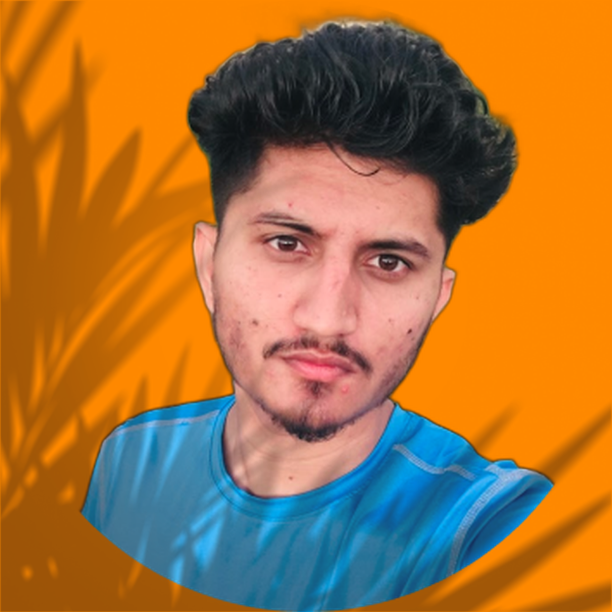
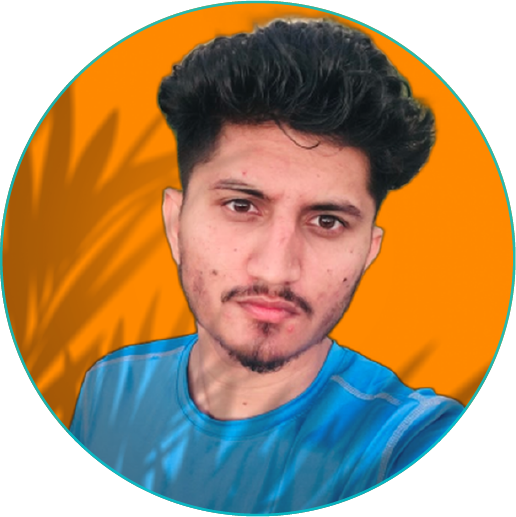
fff

diff --git a/src/components/About/About.js b/src/components/About/About.js
@@ -63,57 +63,7 @@ const About = ({refVar}) => {
         </div>
         <SkillsSection />
       </div>
-      {/* BUBBLES */}
-      <div className="bubble"></div>
-      <div className="bubble"></div>
-      <div className="bubble"></div>
-      <div className="bubble"></div>
-      <div className="bubble"></div>
-      <div className="bubble"></div>
-      <div className="bubble"></div>
-      <div className="bubble"></div>
-      <div className="bubble"></div>
-      <div className="bubble"></div>
-      <div className="bubble"></div>
-      <div className="bubble"></div>
-      <div className="bubble"></div>
-      <div className="bubble"></div>
-      <div className="bubble"></div>
-      <div className="bubble"></div>
-      <div className="bubble"></div>
-      <div className="bubble"></div>
-      <div className="bubble"></div>
-      <div className="bubble"></div>
-      <div className="bubble"></div>
-      <div className="bubble"></div>
-      <div className="bubble"></div>
-      <div className="bubble"></div>
-      <div className="bubble"></div>
-      <div className="bubble"></div>
-      <div className="bubble"></div>
-      <div className="bubble"></div>
-      <div className="bubble"></div>
-      <div className="bubble"></div>
-      <div className="bubble"></div>
-      <div className="bubble"></div>
-      <div className="bubble"></div>
-      <div className="bubble"></div>
-      <div className="bubble"></div>
-      <div className="bubble"></div>
-      <div className="bubble"></div>
-      <div className="bubble"></div>
-      <div className="bubble"></div>
-      <div className="bubble"></div>
-      <div className="bubble"></div>
-      <div className="bubble"></div>
-      <div className="bubble"></div>
-      <div className="bubble"></div>
-      <div className="bubble"></div>
-      <div className="bubble"></div>
-      <div className="bubble"></div>
-      <div className="bubble"></div>
-      <div className="bubble"></div>
-      <div className="bubble"></div>
+      
     </section>
   );
 };

diff --git a/src/Pages/HomePage/HomePage.js b/src/Pages/HomePage/HomePage.js
@@ -3,20 +3,16 @@ import About from '../../components/About/About'
 import Hero from '../../components/Hero/Hero'
 import Navbar from '../../components/Navbar/Navbar'
 import Portfolio from '../../components/Portfolio/Portfolio'
-//const About = React.lazy(()=> import('../../components/About/About'));
 import Aos from 'aos'; // animate on scroll
 import "aos/dist/aos.css"; // aos css file
 import { useInView } from "react-intersection-observer"; // ANimate on Visibility 
 import { motion, useAnimation } from "framer-motion"; // Animation Hooks.
-// import BlogsSection from '../../components/BlogsSection/BlogsSection'
-import ContactForm from '../../components/ContactForm/ContactForm'
 import TriangleClipPath from '../../components/TriangleClipPath/TriangleClipPath';
 import Footer from '../../components/Footer/Footer'
 
 import { useRef } from 'react'
 import MyTechStack from '../../components/MyTechStack/MyTechStack'
 // npm i aos --save 
-//Possible  ANIMATION PROPS data-aos="fade-left", fade-right, up, down etc....
 
 const HomePage = () => {
   const portfolioRef = useRef(null);
@@ -71,7 +67,7 @@ const HomePage = () => {
         initial='hidden'
         animate={control}
       >
-        <Navbar homeRef={homeRef} contactRef={contactRef} portfolioRef={portfolioRef} aboutRef={aboutRef} />
+        <Navbar homeRef={homeRef} portfolioRef={portfolioRef} aboutRef={aboutRef} />
       </motion.div>
       <Hero portfolioRef={portfolioRef} homeRef={homeRef} />
       <div
@@ -83,7 +79,6 @@ const HomePage = () => {
       <About refVar={aboutRef} />
       <Portfolio refVar={portfolioRef} />
       <TriangleClipPath />
-      {/* <ContactForm refVar={contactRef} /> */}
       <Footer />
     </div>
   )

diff --git a/src/components/About/SkillsSection.js b/src/components/About/SkillsSection.js
@@ -1,6 +1,6 @@
 import React from 'react'
 import Bar from './Bar';
-import profilePicture from './dp.svg';
+import profilePicture from './dp.png';
 import './Animation.css'
 
 const skillset=[
@@ -20,8 +20,8 @@ const skillset=[
 
 const SkillsSection = () => {
   return (
-    <section className=' grid grid-cols-1 md:grid-cols-1 lg:grid-cols-2 gap-2 md:gap-4 lg:gap-8 xl:gap-12 p-5 text-center mt-16'>
-        <div className='dp-div flex flex-col items-center gap-4 col-span-2 md:col-span-1 p-1 '
+    <section className=' grid grid-cols-1 md:grid-cols-1 xl:grid-cols-2 gap-2 md:gap-4 lg:gap-8 xl:gap-12 p-5 text-center mt-16'>
+        <div className='dp-div flex flex-col items-center gap-4 col-span-2 md:col-span-1 p-1'
         data-aos="fade-right"
         >
             <div

diff --git a/src/components/About/Bar.js b/src/components/About/Bar.js
@@ -9,7 +9,7 @@ const Bar = ({ title, score }) => {
     <div className={'bar-bg w-full h-4 md:h-8  overflow-hidden flex items-center justify-start'}
       data-aos="fade-up"
     >
-      <p className='font-bold title text-center text-xs md:text-lg  z-1 text-white flex items-center pl-6 py-6  w-[40%] sm:w-4/12 md:w-6/12 lg:w-4/12 '>
+      <p className='font-bold title text-center text-xs md:text-lg  z-1 text-white flex items-center pl-6 py-6  w-max sm:w-4/12 md:w-6/12 lg:w-4/12 '>
         {title}
       </p>
       <div className='w-full h-full flex items-center justify-between' >

diff --git a/src/App.js b/src/App.js
@@ -1,9 +1,6 @@
 import { Routes, Route} from 'react-router-dom';
 import './App.css';
 import HomePage from './Pages/HomePage/HomePage';
-
-
-
 function App() {
   return (
     <div className="">
